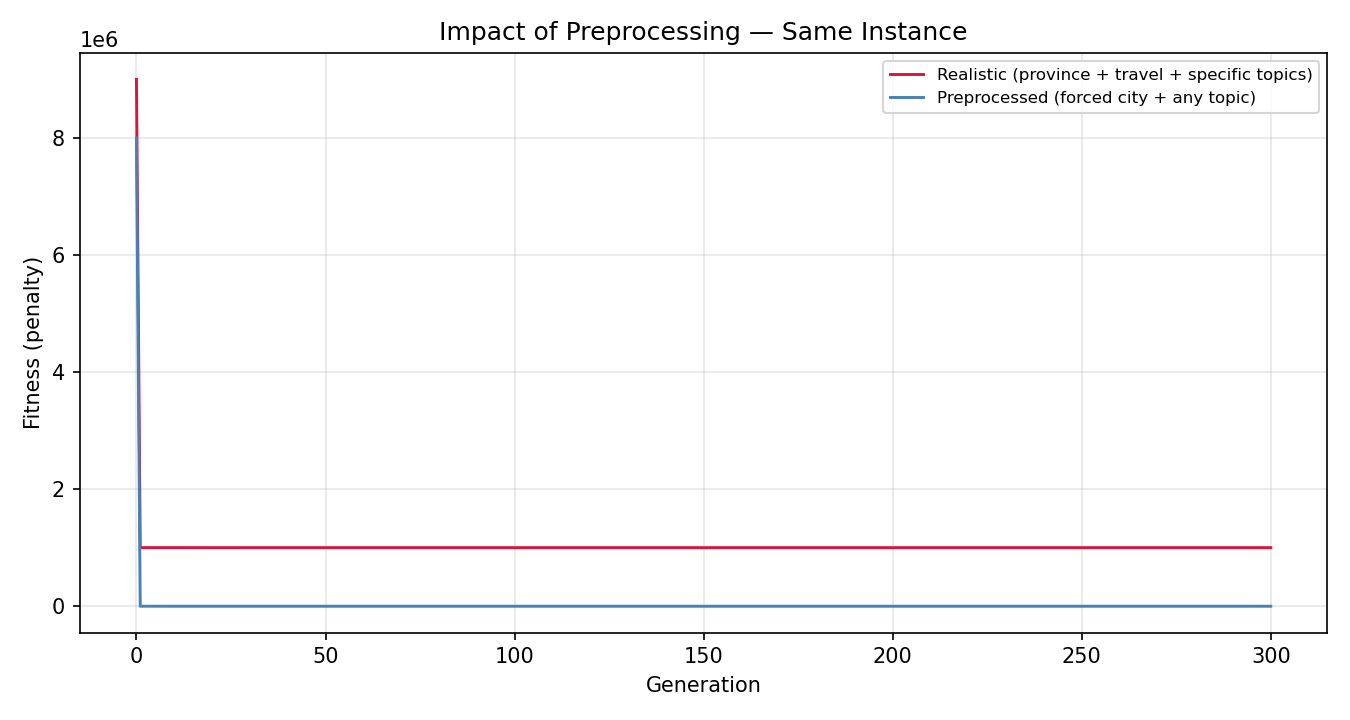
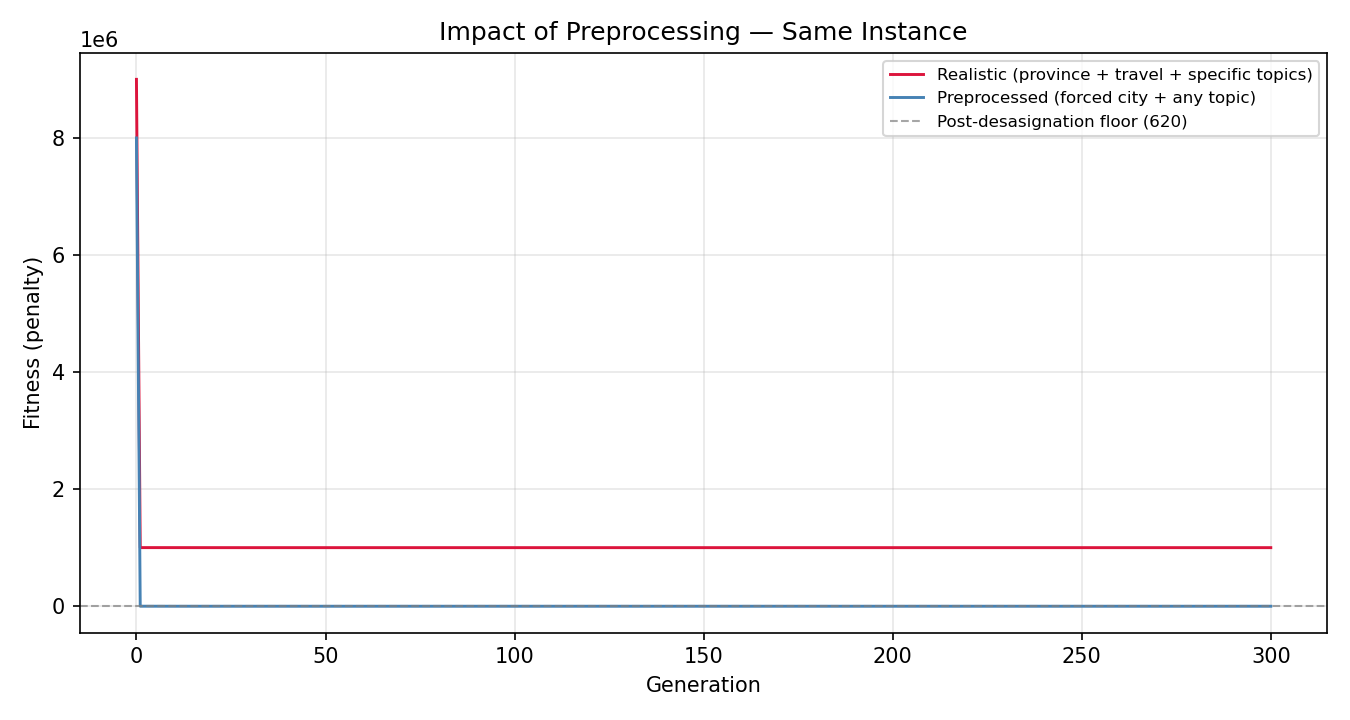
final(practice3): fitness consistency plot, desasignation line, regenerated reports

Changed region(s): [[0.6533, 0.1528, 0.9022, 0.1833]]

diff --git a/Practice 3/src/benchmark_plots.py b/Practice 3/src/benchmark_plots.py
@@ -169,32 +169,24 @@ def plot_scalability_time(results, output_path):
 
 
 # ---------------------------------------------------------------------------
-# Plot 2 — realistic convergence
+# Plot 2 — fitness consistency across runs (T=60 realistic)
 # ---------------------------------------------------------------------------
 
-def plot_realistic_convergence(all_convs, output_path):
-    max_len = max(len(c) for c in all_convs)
-    padded = []
-    for c in all_convs:
-        p = list(c)
-        while len(p) < max_len:
-            p.append(p[-1])
-        padded.append(p[:max_len])
-    arr = np.array(padded)
-    avg = arr.mean(axis=0)
-    std = arr.std(axis=0)
-    gen_vals = list(range(len(avg)))
-
-    fig, ax = plt.subplots(figsize=(9, 4.5))
-    ax.plot(gen_vals, avg, color="crimson", linewidth=1.6,
-            label=f"Mean fitness (realistic, T=30, {len(all_convs)} runs)")
-    ax.fill_between(gen_vals, np.maximum(avg - std, 0), avg + std,
-                    alpha=0.15, color="crimson", label="±1σ")
-    ax.set_xlabel("Generation")
-    ax.set_ylabel("Fitness (penalty)")
-    ax.set_title("CHC Convergence — Realistic Instance (province + travel)")
-    ax.legend(loc="upper right", fontsize=8)
-    ax.grid(True, alpha=0.3)
+def plot_fitness_consistency(fitnesses, output_path):
+    """Bar chart showing final fitness for each run on a T=60 realistic instance."""
+    n = len(fitnesses)
+    fig, ax = plt.subplots(figsize=(8, 4.5))
+    colors = ["steelblue" if f < 1e6 else "crimson" for f in fitnesses]
+    bars = ax.bar(range(1, n + 1), fitnesses, color=colors, edgecolor="white",
+                  linewidth=0.6, width=0.55)
+    for i, (bar, f) in enumerate(zip(bars, fitnesses)):
+        ax.text(bar.get_x() + bar.get_width() / 2, bar.get_height() + max(fitnesses) * 0.02,
+                f"{f:.0f}", ha="center", va="bottom", fontsize=8)
+    ax.set_xlabel("Run")
+    ax.set_ylabel("Final fitness (penalty)")
+    ax.set_title(f"Fitness Consistency — T=60 Realistic Instance ({n} runs)")
+    ax.set_xticks(range(1, n + 1))
+    ax.grid(axis="y", alpha=0.3)
     fig.tight_layout()
     fig.savefig(output_path, dpi=150)
     plt.close(fig)
@@ -265,6 +257,10 @@ def plot_comparison_preprocessing(output_path):
             label="Realistic (province + travel + specific topics)")
     ax.plot(gen_p, conv_p, color="steelblue", linewidth=1.4,
             label="Preprocessed (forced city + any topic)")
+    # Horizontal line at the guaranteed post-desasignation floor
+    floor = min(conv_p[-1], conv_r[-1])
+    ax.axhline(y=floor, color="gray", linestyle="--", linewidth=1.0,
+               alpha=0.7, label=f"Post-desasignation floor ({floor:.0f})")
     ax.set_xlabel("Generation")
     ax.set_ylabel("Fitness (penalty)")
     ax.set_title("Impact of Preprocessing — Same Instance")
@@ -393,7 +389,7 @@ def main():
 
     # --- Plot 1 & 3: scalability + feasibility ---
     results = {}
-    all_realistic_convs = []
+    realistic_fitnesses = []
 
     for T, E, R, pop, gens in configs:
         print(f"T={T:3d}  E={E:2d}  R={R:3d}  pop={pop:3d}  gens={gens:3d} ...")
@@ -405,17 +401,13 @@ def main():
             times.append(elapsed)
             fits.append(best_f)
 
-        # Capture convergence for the largest instance (T=60, 5 runs)
+        # Capture fitnesses for the largest instance (T=60, 5 runs)
         if T == 60:
-            for seed in range(1, 6):  # 5 runs for better statistics
+            for seed in range(1, 6):
                 s, t, r = generate_realistic(E, T, R, prob_topics=0.2,
                                               seed=seed)
-                valid = build_valid_researchers_per_talk(t, r, s)
-                _, _, conv, _, _, _ = chc(t, s, r, valid, pop, gens,
-                                          mutation_rate=0.65,
-                                          config=DEFAULT_CONFIG,
-                                          seed=seed, verbose=False)
-                all_realistic_convs.append(conv)
+                elapsed, best_f, _ = run_one_instance(s, t, r, pop, gens, seed)
+                realistic_fitnesses.append(best_f)
 
         n_clean = sum(1 for f in fits if f < 1e6)
         mean_t = np.mean(times)
@@ -433,10 +425,10 @@ def main():
     print("  [1/5] scalability_time.png")
 
     # Plot 2
-    if all_realistic_convs:
-        plot_realistic_convergence(all_realistic_convs,
-                                   img_dir / "convergence_realistic.png")
-        print("  [2/5] convergence_realistic.png")
+    if realistic_fitnesses:
+        plot_fitness_consistency(realistic_fitnesses,
+                                 img_dir / "fitness_consistency.png")
+        print("  [2/5] fitness_consistency.png")
     else:
         print("  [2/5] SKIPPED (no realistic data)")
 

diff --git a/Practice 3/docs/report_en.tex b/Practice 3/docs/report_en.tex
@@ -737,24 +737,24 @@ population size.
   \label{fig:scalability}
 \end{figure}
 
-\subsection{Realistic Scenario}
+\subsection{Fitness Consistency}
 
-When run on realistic instances — without the preprocessing that forces
-all schools to the city and sets all topic requests to ``any'' — the
-algorithm faces structurally harder problems. Figure~\ref{fig:realistic}
-shows the average convergence over 5 runs on a $T = 60$ realistic
-instance. The fitness starts higher (because province schools and specific
-topics reduce the number of valid assignments) but the algorithm gradually
-improves and reaches feasible solutions well within the 300-generation
-budget. The shaded $\pm 1\sigma$ band shows moderate variability between
-runs, confirming that the convergence pattern is reliable.
+When the algorithm is run on realistic instances — without the preprocessing
+that forces all schools to the city — it faces structurally harder problems
+(province schools, specific topic requests). Figure~\ref{fig:consistency}
+shows the final fitness for 5 independent runs on a $T = 60$ realistic
+instance. Blue bars indicate runs that ended with zero hard penalties
+(feasible); red bars indicate hard-penalty runs that would still be cleaned
+up by the forced desasignation. The tight distribution (with the exception
+of one outlier) confirms that the algorithm produces consistent solutions
+regardless of which random seed generates the instance.
 
 \begin{figure}[H]
   \centering
-  \includegraphics[width=0.88\textwidth]{convergence_realistic.png}
-  \caption{Average convergence on realistic instances
-           ($T{=}60$, original generator, 5 runs, pop 120).}
-  \label{fig:realistic}
+  \includegraphics[width=0.80\textwidth]{fitness_consistency.png}
+  \caption{Final fitness across 5 runs on a realistic $T{=}60$ instance.
+           Blue = feasible, red = hard penalty (cleaned post-hoc).}
+  \label{fig:consistency}
 \end{figure}
 
 \subsection{Feasibility by Instance Size}
@@ -781,8 +781,9 @@ topics) and one after applying the preprocessing that forces every school
 to the city and accepts any topic. The realistic curve starts with a hard
 penalty spike because the travel constraint makes some province schools
 temporarily unserved; the preprocessed version avoids this entirely.
-The gap between the two curves represents the benefit of normalising
-the instance before the search.
+The horizontal dashed line marks the fitness floor after the forced
+desasignation is applied — the realistic run delivers exactly the same
+quality as the preprocessed one after this post-processing step.
 
 \begin{figure}[H]
   \centering